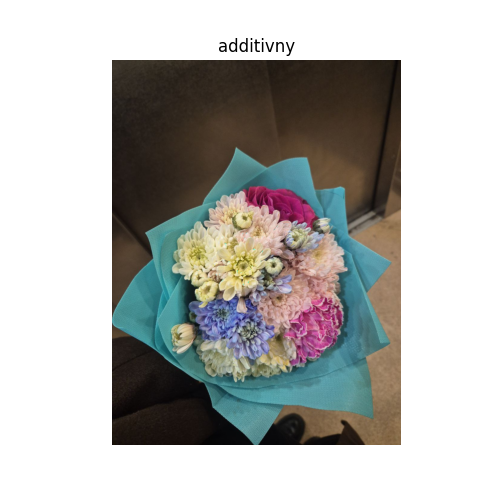
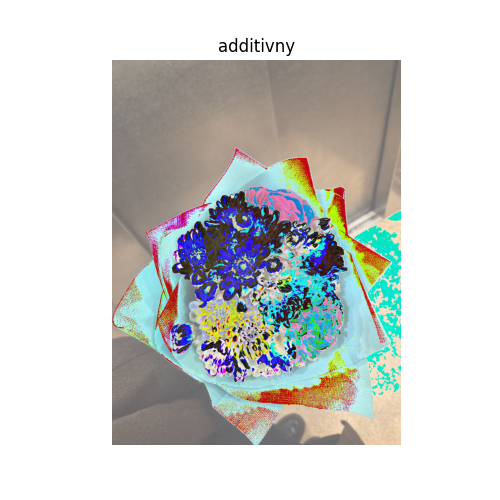
done all noise (вроде)

diff --git a/2_course/texViz/lab3/code/noises.py b/2_course/texViz/lab3/code/noises.py
@@ -19,9 +19,37 @@ def imNoise(image, amount=0.5):
 
 
 def addNoise(image, noise):
-    noisy_image = image + noise
-    return np.clip(noisy_image, 0, 255).astype(np.uint8)
+    noisyImage = image + noise
+    return np.clip(noisyImage, 0, 255).astype(np.uint8)
 
 def mulNoise(image, noise):
-    noisy_image = image * noise
-    return np.clip(noisy_image, 0, 255).astype(np.uint8)
+    noisyImage = image * noise
+    return np.clip(noisyImage, 0, 255).astype(np.uint8)
+
+def gayNoise(image, mean, var): # (хихихи)
+    rng = np.random.default_rng()
+    gauss = (rng.normal(mean, var**0.5, image.shape)).reshape(image.shape)
+    if image.dtype == np.uint8:
+        noisyImage = (image.astype(np.float32) + gauss*255).clip(0, 255).astype(np.uint8)
+    else :
+        noisyImage = (image+gauss).astype(np.float32)
+    return noisyImage
+
+def kvantNoise(I):
+    rng = np.random.default_rng()
+
+    if I.dtype == np.uint8:
+        I_f = I . astype ( np . float32 ) / 255
+        vals = len ( np . unique ( I_f ))
+        vals = 2 ** np . ceil ( np . log2 ( vals ))
+        I_out = (255 * \
+        ( rng . poisson ( I_f * vals ) / \
+        float ( vals )). clip (0 , 1)). \
+        astype ( np . uint8 )
+    else :
+        vals = len ( np . unique ( I ))
+        vals = 2 ** np . ceil ( np . log2 ( vals ))
+        I_out = \
+        rng . poisson ( I * vals ) / float ( vals )
+
+    return I_out

diff --git a/2_course/texViz/lab3/code/py.py b/2_course/texViz/lab3/code/py.py
@@ -3,12 +3,18 @@ from noises import *
 
 image = cv2.imread("../images/flowers.jpg")
 
-imImage = imNoise(image, 0.5)
+imImage = imNoise(image, 0.1)
 plot(imImage, "impulsny", "../noise/impuls.png")
 
-addImage = addNoise(image, 1)
+addImage = addNoise(image, 100)
 plot(addImage, "additivny", "../noise/additive.png")
 
 mulImage = mulNoise(image, 5)
 plot(mulImage, "multiplicativny", "../noise/multiplicativny.png")
+
+gayImage = gayNoise(image, 1, 12)
+plot(gayImage, "gaussian", "../noise/gaussian.png")
+
+kvantImage = kvantNoise(image)
+plot(kvantImage, "kvant", "../noise/kvant.png")
 
